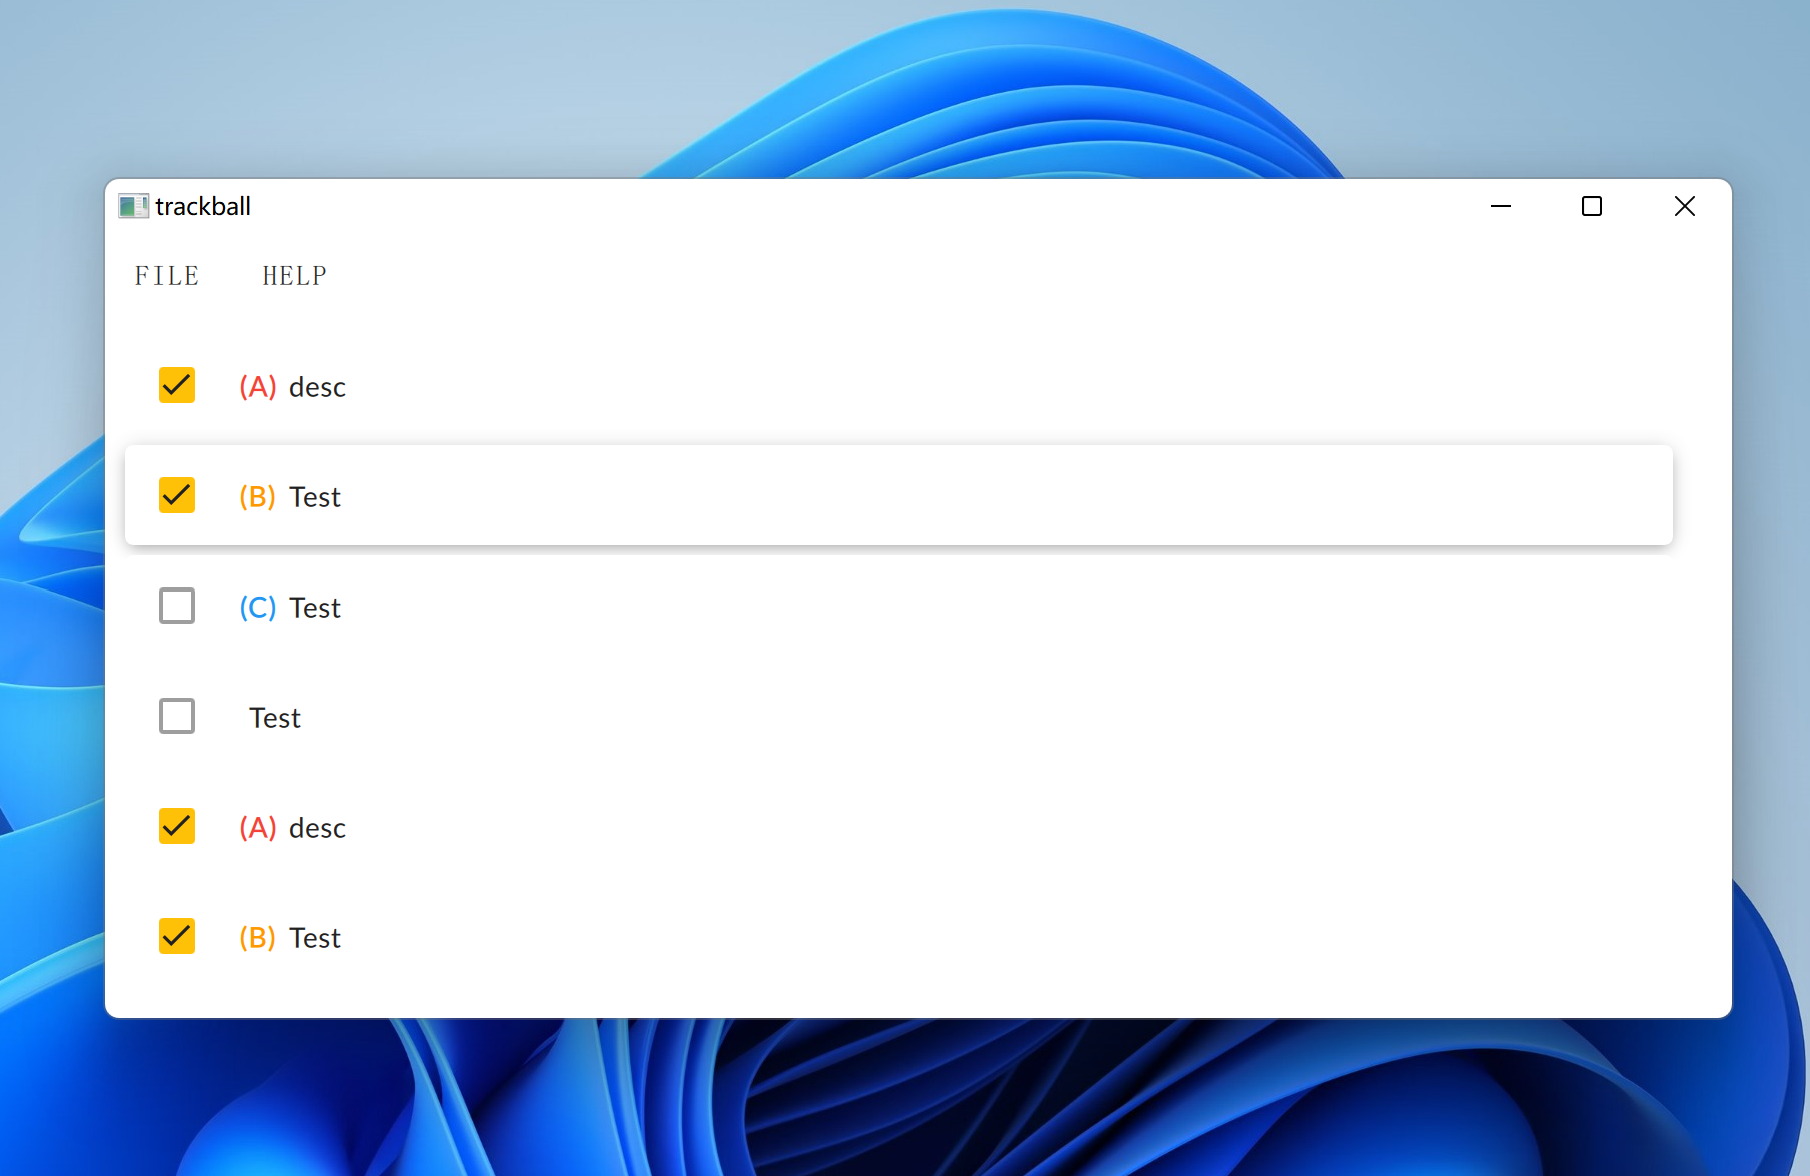
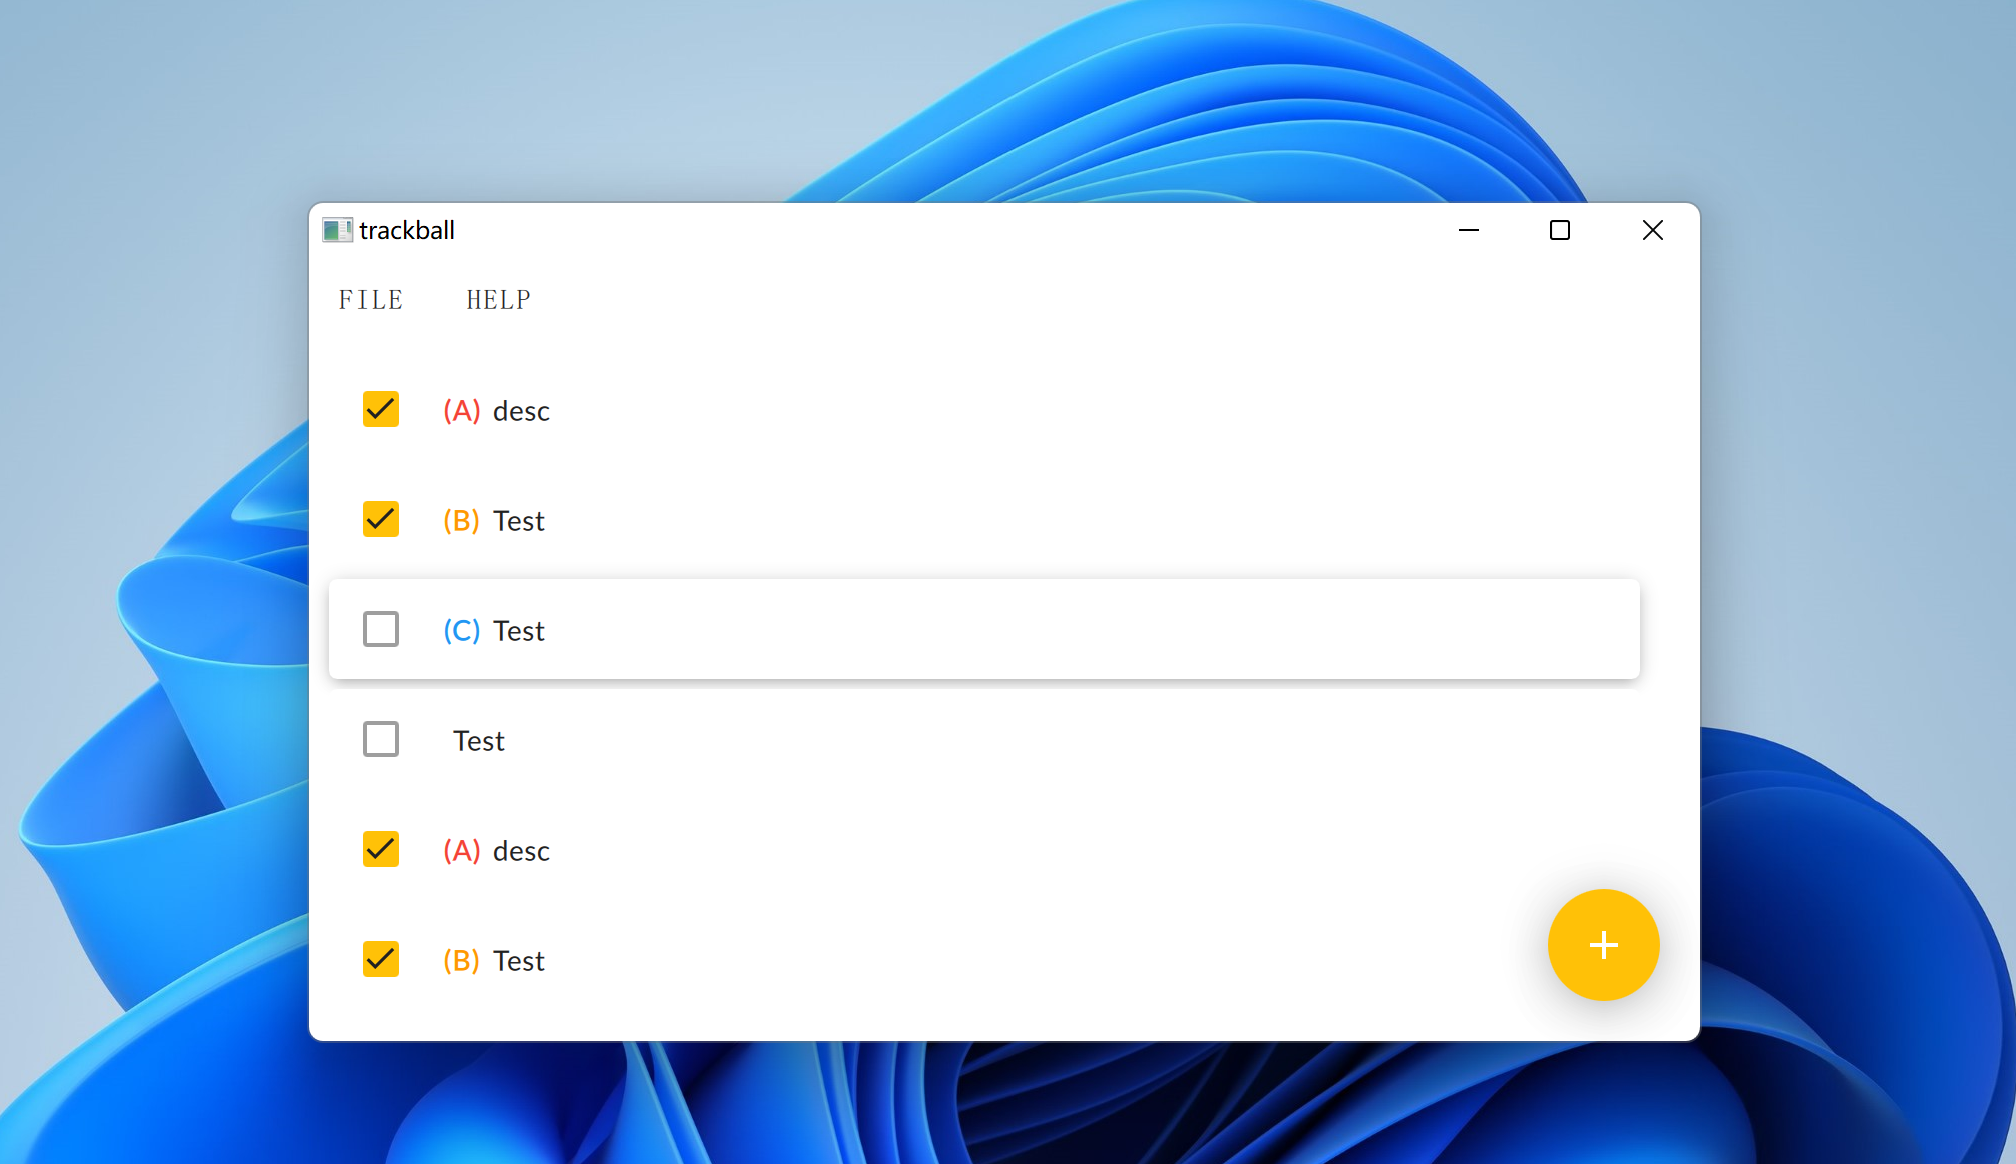
🎑 feat: create button

diff --git a/src/qml/main.qml b/src/qml/main.qml
@@ -35,8 +35,22 @@ Qaterial.ApplicationWindow {
     }
 
     TodoList {
-        width: window.width
         id: todoList
+        width: window.width
+    }
+
+    Qaterial.FabButton {
+        id: createButton
+        icon.source: Qaterial.Icons.plus
+
+        anchors.right: parent.right
+        anchors.bottom: parent.bottom
+        anchors.margins: 20
+
+        highlighted: true
+        enabled: true
+        enabledScale: true
+        extendedOnHovered: true
     }
 
     // Save and restore x, y, width, height
